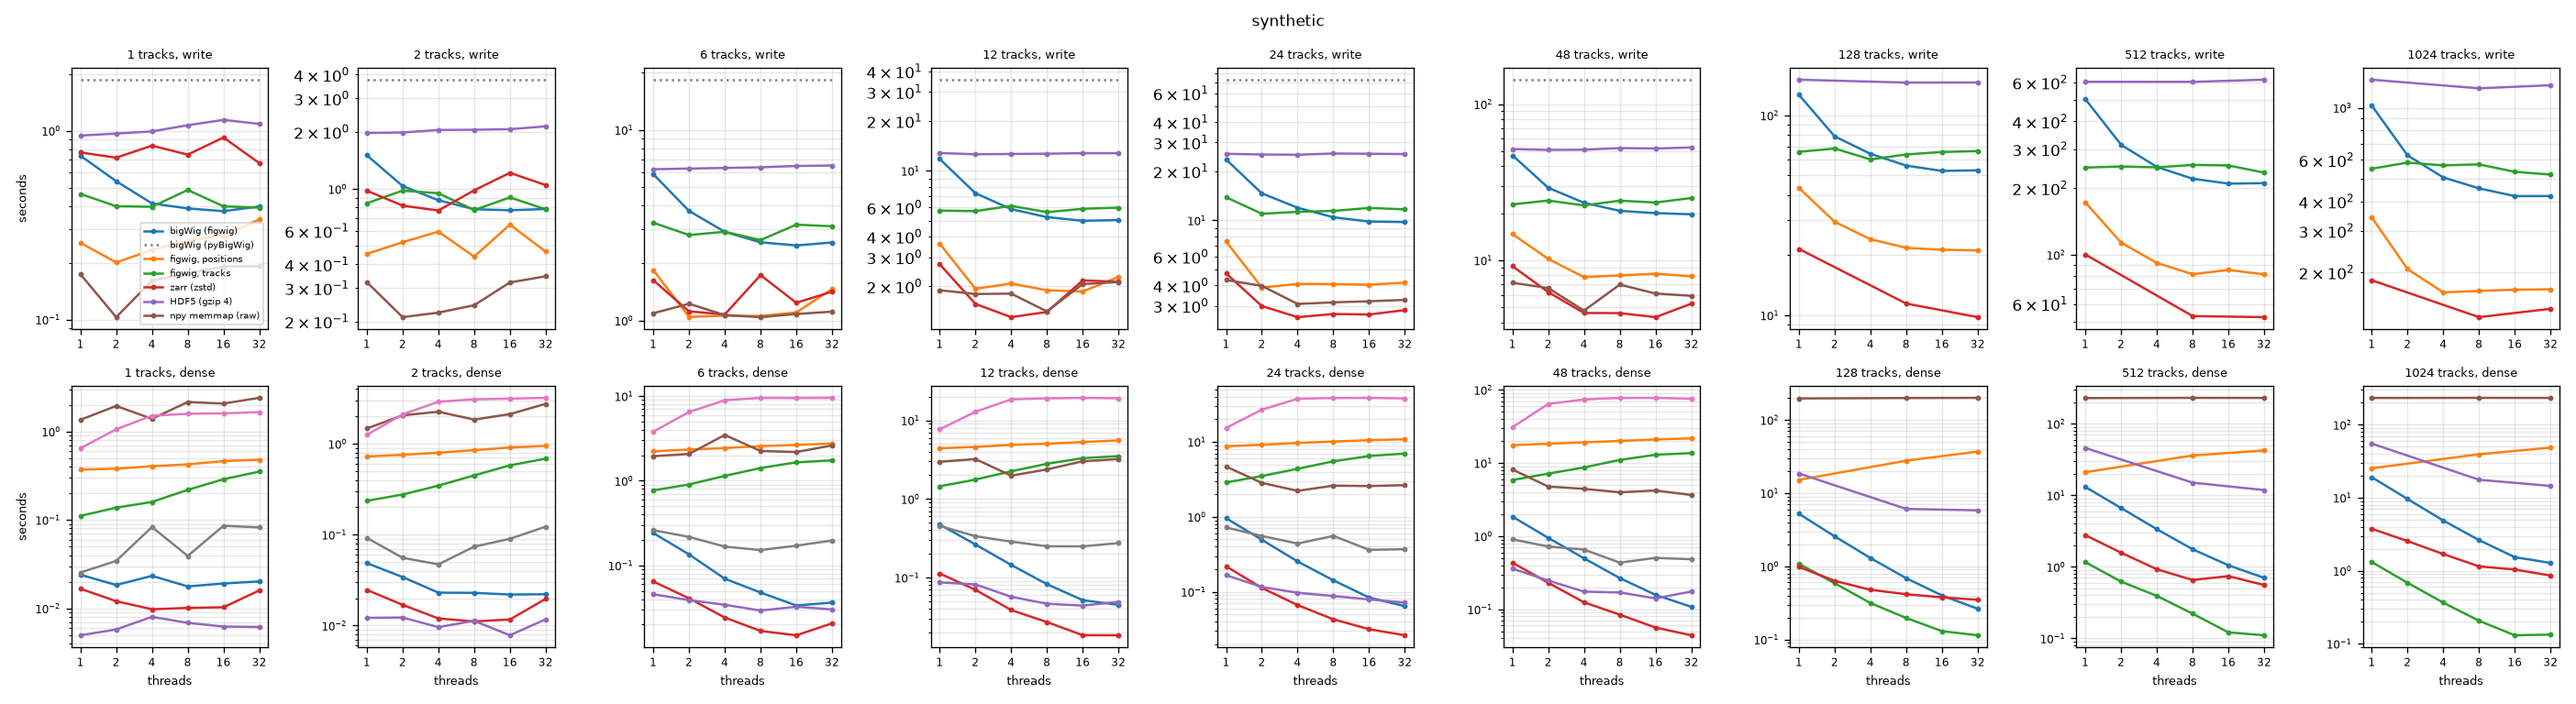
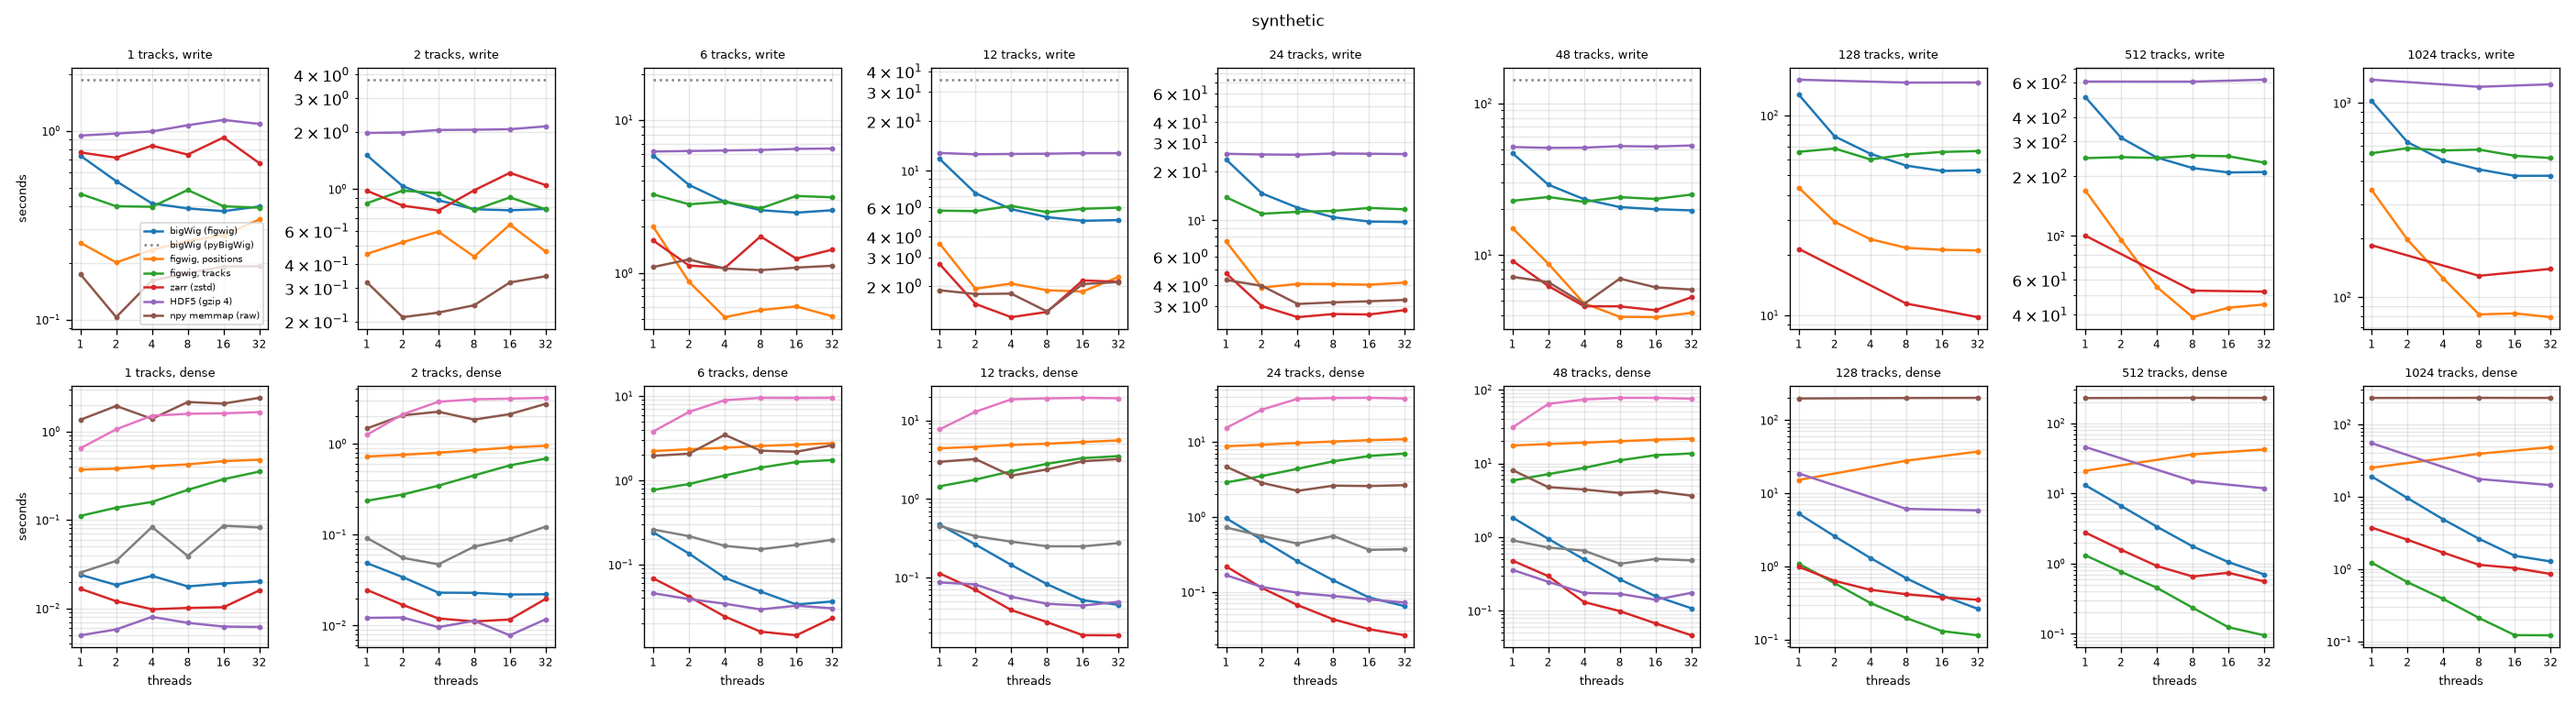
DOC the write timings of the faster writer and the zoom levels in the benchmarks and changelog

diff --git a/docs/whats_new.rst b/docs/whats_new.rst
@@ -20,7 +20,7 @@ figwig files
 
 	- Reads. ``read(..., sparse=True)`` returns the nonzero bases as a ``SparseWindows`` of entries, ``read(..., labels=)`` sums the tracks per label in the read, which turns cells into pseudobulks, ``read(..., bins=)`` sums each window per bin of bases without laying the bases out, and ``read_entries(tracks, chroms)`` returns every nonzero base of tracks over chromosomes. ``FigWigReader.sums(chroms, starts, ends, tracks=None, dtype=None, n_jobs=8, nan='propagate', paired=False)`` sums intervals of any lengths, such as peaks or genes; ``nan='skip'`` leaves NaN bases out and ``nan='count'`` gives the bases that are not NaN, so a mean over the bases a track covers, as pyBigWig and deepTools give it, is the sums with 'skip' over those with 'count' on a file whose uncovered bases are NaN; ``paired=True`` sums interval i over track i alone, in reads of a few tracks of one group at a time, for a reads dimension where each read's span is its own track. ``FigWigReader.tile_sums(tracks, chroms, level=0)`` gives each track's sum over every tile from the file's summaries, kept while they take at most 256 MB, without decoding a chunk: a genome-wide profile at the tile's resolution, which is what a bigWig's zoom levels serve; a file written with ``zooms=k`` (``bw2fw -z``, ``bam2fw -z``) keeps ``k`` zoom levels, each 4 times coarser than the last, in float64, which ``tile_sums(level=j)`` returns, ``FigWigReader.zooms`` lists and ``info`` prints, announced by an optional header bit; ``read(..., channels="channel", items="read")`` and ``sums`` arrange tracks by two attributes into (windows, items, channels, width), for reads, cells or channels as tracks, with no change to the file. The default dtype of a read of mixed tracks is the narrowest type that holds every track exactly; sums of integer tracks come back float64; sums into an integer dtype are taken in int64 and checked; a dense read whose output would pass 8 GiB raises instead of allocating it, and the memory guard counts a sum's accumulator. A read uses one thread per 64 chunks it touches up to ``n_jobs``, keeps its pool between reads, hands its batches to the threads in shares, reads each batch's bytes without the GIL, splits the pairs of a few chunks over the threads, and decodes a chunk that many windows fall on once into a scratch tile; batches are not cut inside a window, so a binned sum needs no copy of the output per thread.
 
-	- Writes. ``write`` copies a block in the caller's type and converts it to the kernels' on the pool, each task for its own tiles, with only the windows' edge tiles converted on the calling thread, and copies large blocks on the pool too, so a write of 128 count tracks over chr1 takes 11 s on 8 threads where it took 24 s. ``write`` takes windows or intervals of whole groups and ``write_sparse(chroms, positions, tracks, values)`` takes nonzero bases as entries, the form of single-cell cut sites and of a sparse matrix's triplets, sorted once by one composite key and encoded on the ``n_jobs`` threads. A track's ``dtype`` may be declared (``uint8`` to ``uint32``, ``int8`` to ``int32``, ``float32``, ``float64``) or inferred; a float32 track keeps float32's rounding, a value beyond float32 raises unless the track is float64, a 64-bit integer beyond 2**53 is refused rather than rounded, an infinite value is refused (a base is a finite value or NaN, in figwig files as in the bigWigs figwig writes), -0.0 is 0, and the sum statistic is compensated, so it does not depend on how the values were split between calls. The file is written beside its path and moved there at ``close``, so a failed write, a writer never closed, or a conversion over its own input leaves the path as it was; a writer garbage collected with values written and no ``close`` warns. ``FigWigWriter(path, None, tracks, append=True)`` adds tracks to the file at the path in place, writing the new chunks, tables, index and last the header after its end, so that the cost is the new chunks and a writer that fails, or is killed, leaves the file readable as it was, under the file's lock so that one writer at a time appends; ``FigWigWriter.add_file(path)`` adds every track of another file written with the same chromosomes, tile, level and order, copying its chunks; ``figwig merge -o all.fw a.fw b.fw`` does that from the command line, refusing files that name different genomes unless ``-g`` says which; and ``figwig bw2fw --append`` adds bigWigs to a figwig file.
+	- Writes. ``write`` converts a block to the kernels' type on the pool, each task for its own tiles, with only the windows' edge tiles converted on the calling thread, and copies a block in the caller's type on the pool when there is one (and not at all without one, where every task runs inside the call), so 512 count tracks over chr1 write in 39 s on 8 threads where they took 82 s, and 1,024 in 82 s where they took 167 s, with one thread unchanged and the bytes identical. ``write`` takes windows or intervals of whole groups and ``write_sparse(chroms, positions, tracks, values)`` takes nonzero bases as entries, the form of single-cell cut sites and of a sparse matrix's triplets, sorted once by one composite key and encoded on the ``n_jobs`` threads. A track's ``dtype`` may be declared (``uint8`` to ``uint32``, ``int8`` to ``int32``, ``float32``, ``float64``) or inferred; a float32 track keeps float32's rounding, a value beyond float32 raises unless the track is float64, a 64-bit integer beyond 2**53 is refused rather than rounded, an infinite value is refused (a base is a finite value or NaN, in figwig files as in the bigWigs figwig writes), -0.0 is 0, and the sum statistic is compensated, so it does not depend on how the values were split between calls. The file is written beside its path and moved there at ``close``, so a failed write, a writer never closed, or a conversion over its own input leaves the path as it was; a writer garbage collected with values written and no ``close`` warns. ``FigWigWriter(path, None, tracks, append=True)`` adds tracks to the file at the path in place, writing the new chunks, tables, index and last the header after its end, so that the cost is the new chunks and a writer that fails, or is killed, leaves the file readable as it was, under the file's lock so that one writer at a time appends; ``FigWigWriter.add_file(path)`` adds every track of another file written with the same chromosomes, tile, level and order, copying its chunks; ``figwig merge -o all.fw a.fw b.fw`` does that from the command line, refusing files that name different genomes unless ``-g`` says which; and ``figwig bw2fw --append`` adds bigWigs to a figwig file.
 
 	- Integrity. Every chunk's CRC-32 is kept and ``FigWigReader(path, verify=True)`` checks each chunk read against it; a chunk stored as it is inside a compressed file is checked on every read; the header keeps a CRC-32 of itself and one of the tables and directory, and each index record one of its own, all checked at open, so a flipped byte anywhere outside the chunks is refused rather than read by. Every count in the header and the index is bounded against the file and against what a group can hold before its bytes are asked for, runs may not overlap, the tile count is capped, and every pointer of a chunk is checked before any offset is read by it, so a crafted or truncated file raises ``ValueError`` rather than a ``MemoryError`` or a crash. The reader keeps its path absolute, holds the file by its inode and header, and checks on every read that the file is the one it opened, so a file replaced by a conversion raises instead of reading with a stale index, while a reader keeps reading through an append in place. A directory, a FIFO, a deeply nested metadata document or a non-object ``attributes`` are refused as ``ValueError``; any other top-level metadata key is kept through an append.
 

diff --git a/docs/benchmarks.rst b/docs/benchmarks.rst
@@ -240,10 +240,10 @@ stays under 8 GB. Seconds at 1 / 8 / 32 threads:
      - 512 tracks
      - 1,024 tracks
    * - figwig file, position order
-     - 1.8 / 1.1 / 1.5, 20 MB
-     - 14.7 / 8.0 / 7.9, 148 MB
-     - 172 / 82 / 82, 1.5 GB
-     - 342 / 167 / 169, 3.1 GB
+     - 2.0 / 0.57 / 0.52, 20 MB
+     - 15.0 / 3.9 / 4.2, 148 MB
+     - 170 / 39 / 45, 1.5 GB
+     - 356 / 82 / 79, 3.1 GB
    * - figwig file, track order
      - 3.3 / 2.6 / 3.1, 84 MB
      - 23 / 24 / 25, 676 MB
@@ -286,12 +286,17 @@ pyBigWig, pybigtools and HDF5 get slower with more of them (a lock or the
 GIL) and zarr stops at about 4 times, its reads being one Python call per
 window. Track order is the faster of the two for a few tracks, where its
 raw blocks need no inflating, and position order past about 48. The
-figwig writer is the fastest of the compressed formats up to 128 tracks
-and 1.6 times slower than zarr at 512 and 1,024, where it stops gaining
-past 8 threads because sorting and the float64 buffer copies stay on the
-calling thread; the track-order writer encodes on the calling thread and
-does not gain at all. pyBigWig and pybigtools were not run at 512 tracks
-and above, nor the memmap, whose file would be 255 GB.
+figwig writer is the fastest of the compressed formats on 8 threads and
+more at every track count (512 tracks in 39 s against zarr's 53 s, 1,024
+in 82 s against 129 s), and on one thread up to 128 tracks; past that,
+one thread's conversion of the values to the kernels' type is the cost
+(170 s against zarr's 100 s at 512), and the writer gains little from 8
+threads to 32, since the file writes and the index stay on the calling
+thread. The track-order writer encodes on the calling thread and does
+not gain at all. pyBigWig and pybigtools were not run at 512 tracks and
+above, nor the memmap, whose file would be 255 GB. The write timings
+include producing each piece of input, the same for every format, which
+is about a fifth of a one-thread figwig write of 128 tracks.
 
 Real experiments, 1 to 512 ENCODE tracks, over chr1:0-30 Mb
 ~~~~~~~~~~~~~~~~~~~~~~~~~~~~~~~~~~~~~~~~~~~~~~~~~~~~~~~~~~~
@@ -352,9 +357,9 @@ threads:
      - 128 tracks
      - 512 tracks
    * - figwig file, position order
-     - 1.9 / 1.4 / 1.4, 44 MB
-     - 17.9 / 5.0 / 4.1, 1.0 GB
-     - 80 / 16.6 / 17.7, 4.2 GB
+     - 1.9 / 1.3 / 1.3, 44 MB
+     - 18.6 / 4.9 / 4.1, 1.0 GB
+     - 80 / 14.9 / 14.9, 4.2 GB
    * - figwig file, track order
      - 2.0 / 1.8 / 1.8, 113 MB
      - 15.0 / 12.2 / 11.5, 2.5 GB
